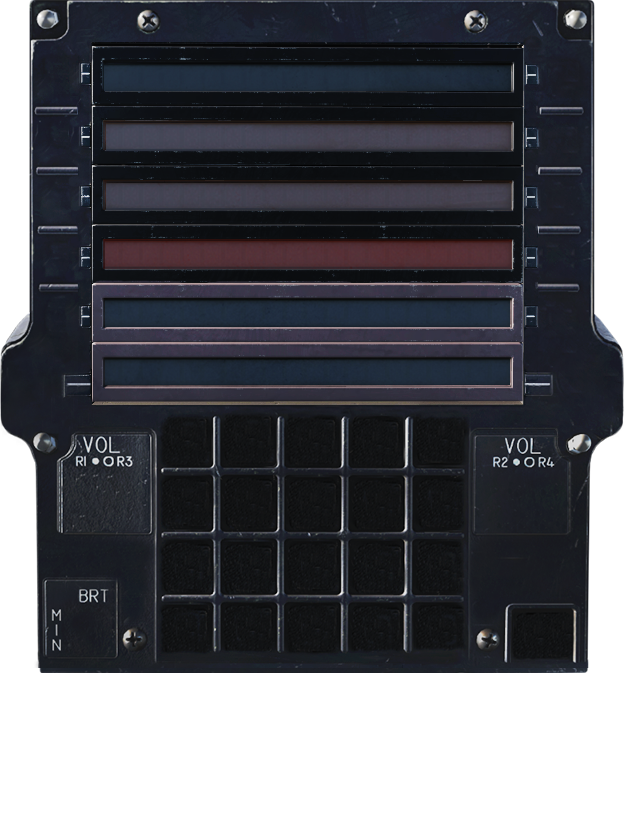
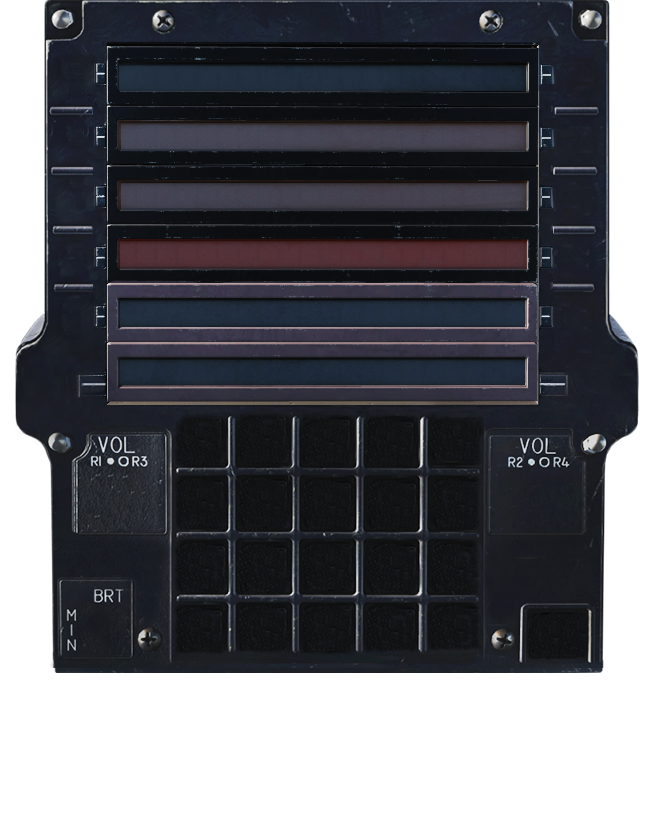
F-15E Interface: # Viewport Template defined # UFC resized to fix a scaling problem # AMAD images added Changes made to interface items: # Landing/Taxi Light Switch # Fuel Fuel Control: Wing Tanks # Fuel Fuel Control: Centerline Tank # Fuel Fuel Control: Conformal Tanks # Fuel A/R Slipway # Fuel Fue

diff --git a/Helios/Interfaces/DCS/F-15E/F15EInterface.cs b/Helios/Interfaces/DCS/F-15E/F15EInterface.cs
@@ -26,6 +26,7 @@ namespace GadrocsWorkshop.Helios.Interfaces.DCS.F15E
     using System.Windows.Markup;
     using System.Reflection;
     using GadrocsWorkshop.Helios.Gauges.AH64D.KU.PILOT;
+    using System.Configuration;
 
     public enum Cockpit { Pilot, WSO }
     /// <summary>
@@ -126,19 +127,19 @@ namespace GadrocsWorkshop.Helios.Interfaces.DCS.F15E
             #region AMAD Panel
             AddFunction(new Switch(this, devices.DEEC.ToString("d"), "314", new SwitchPosition[] { new SwitchPosition("1.0", "Posn 1", Commands.amadctrl_commands.fire_ext_sw.ToString("d"), Commands.amadctrl_commands.fire_ext_sw.ToString("d"), "0.0", "0.0"), new SwitchPosition("0.0", "Posn 2", null), new SwitchPosition("-1.0", "Posn 3", Commands.amadctrl_commands.fire_ext_sw.ToString("d"), Commands.amadctrl_commands.fire_ext_sw.ToString("d"), "0.0", "0.0") }, "AMAD Panel", "Fire Extinguisher Switch", "%0.1f"));
             AddFunction(new Switch(this, devices.DEEC.ToString("d"), "315", new SwitchPosition[] { new SwitchPosition("1.0", "Posn 1", Commands.amadctrl_commands.amad_sw_cover.ToString("d")), new SwitchPosition("0.0", "Posn 2", Commands.amadctrl_commands.amad_sw_cover.ToString("d")) }, "AMAD Panel", "AMAD Fire Switch Cover", "%0.1f"));
-            AddFunction(new Switch(this, devices.DEEC.ToString("d"), "316", new SwitchPosition[] { new SwitchPosition("1.0", "Posn 1", Commands.amadctrl_commands.amad_sw.ToString("d")), new SwitchPosition("0.0", "Posn 2", Commands.amadctrl_commands.amad_sw.ToString("d")) }, "AMAD Panel", "AMAD Fire Switch", "%0.1f"));
+            AddFunction(new PushButton(this, devices.DEEC.ToString("d"), Commands.amadctrl_commands.amad_sw.ToString("d"), "316", "AMAD Panel", "AMAD Fire Switch", "%.1f"));
             AddFunction(new FlagValue(this, "130", "AMAD Panel", "AMAD Fire Indicator", "True when indicator is lit", "%1d"));
             AddFunction(new Switch(this, devices.DEEC.ToString("d"), "317", new SwitchPosition[] { new SwitchPosition("1.0", "Posn 1", Commands.amadctrl_commands.left_eng_fire_cover.ToString("d")), new SwitchPosition("0.0", "Posn 2", Commands.amadctrl_commands.left_eng_fire_cover.ToString("d")) }, "AMAD Panel", "Left Engine Fire Switch Cover", "%0.1f"));
-            AddFunction(new Switch(this, devices.DEEC.ToString("d"), "318", new SwitchPosition[] { new SwitchPosition("1.0", "Posn 1", Commands.amadctrl_commands.left_eng_fire_sw.ToString("d")), new SwitchPosition("0.0", "Posn 2", Commands.amadctrl_commands.left_eng_fire_sw.ToString("d")) }, "AMAD Panel", "Left Engine Fire Switch", "%0.1f"));
+            AddFunction(new PushButton(this, devices.DEEC.ToString("d"), Commands.amadctrl_commands.left_eng_fire_sw.ToString("d"), "318", "AMAD Panel", "Left Engine Fire Switch", "%.1f"));
             AddFunction(new FlagValue(this, "131", "AMAD Panel", "Engine Fire Left Indicator", "True when indicator is lit", "%1d"));
             AddFunction(new Switch(this, devices.DEEC.ToString("d"), "319", new SwitchPosition[] { new SwitchPosition("1.0", "Posn 1", Commands.amadctrl_commands.right_eng_fire_cover.ToString("d")), new SwitchPosition("0.0", "Posn 2", Commands.amadctrl_commands.right_eng_fire_cover.ToString("d")) }, "AMAD Panel", "Right Engine Fire Switch Cover", "%0.1f"));
-            AddFunction(new Switch(this, devices.DEEC.ToString("d"), "320", new SwitchPosition[] { new SwitchPosition("1.0", "Posn 1", Commands.amadctrl_commands.right_eng_fire_sw.ToString("d")), new SwitchPosition("0.0", "Posn 2", Commands.amadctrl_commands.right_eng_fire_sw.ToString("d")) }, "AMAD Panel", "Right Engine Fire Switch", "%0.1f"));
+            AddFunction(new PushButton(this, devices.DEEC.ToString("d"), Commands.amadctrl_commands.right_eng_fire_sw.ToString("d"), "320", "AMAD Panel", "Right Engine Fire Switch", "%.1f"));
             AddFunction(new FlagValue(this, "132", "AMAD Panel", "Engine Fire Right Indicator", "True when indicator is lit", "%1d"));
             AddFunction(new FlagValue(this, "133", "AMAD Panel", "Left Burn Thru Indicator", "True when indicator is lit", "%1d"));
             AddFunction(new FlagValue(this, "134", "AMAD Panel", "Right Burn Thru Indicator", "True when indicator is lit", "%1d"));
             #endregion AMAD Panel
             #region Armament Panel
-            AddFunction(new Switch(this, devices.PACS.ToString("d"), "323", new SwitchPosition[] { new SwitchPosition("1.0", "Posn 1", Commands.armtctrl_commands.Master_Arm_SW.ToString("d")), new SwitchPosition("0.0", "Posn 2", Commands.armtctrl_commands.Master_Arm_SW.ToString("d")) }, "Armament Panel", "Master Arm", "%0.1f"));
+            AddFunction(new Switch(this, devices.PACS.ToString("d"), "323", new SwitchPosition[] { new SwitchPosition("1.0", "Arm", Commands.armtctrl_commands.Master_Arm_SW.ToString("d")), new SwitchPosition("0.0", "Safe", Commands.armtctrl_commands.Master_Arm_SW.ToString("d")) }, "Armament Panel", "Master Arm", "%0.1f"));
             AddFunction(new Switch(this, devices.PACS.ToString("d"), "321", SwitchPositions.Create(7, -0.9d, 0.3d, Commands.armtctrl_commands.JETT_Selector_Knob.ToString("d"), new string[] { "FF", "Manual Ret", "Alternating Release", "Off", "Combat", "A/A","A/G"}, "%0.1f"), "Armament Panel", "Armament Jettison Selector", "%0.1f"));
             AddFunction(new PushButton(this, devices.PACS.ToString("d"), Commands.armtctrl_commands.JETT_Button.ToString("d"), "322", "Armament Panel", "Armament Jettison Button", "%.1f"));
             AddFunction(new PushButton(this, devices.PACS.ToString("d"), Commands.misc_commands.em_jett_btn.ToString("d"), "340", "Armament Panel", "Emergency Jettison Button", "%.1f"));
@@ -158,9 +159,9 @@ namespace GadrocsWorkshop.Helios.Interfaces.DCS.F15E
             AddFunction(new PushButton(this, devices.WCAS.ToString("d"), Commands.ldg_commands.warn_tone_sil_btn.ToString("d"), "325", "Landing Gear Panel", "Landing Gear Warning Tone Silence Switch", "%.1f"));
             AddFunction(new Switch(this, devices.LGS.ToString("d"), "324", new SwitchPosition[] { new SwitchPosition("0.0", "Up", Commands.ldg_commands.Gear_lever.ToString("d")), new SwitchPosition("1.0", "Down", Commands.ldg_commands.Gear_lever.ToString("d") )}, "Landing Gear Panel", "Landing Gear Lever", "%0.1f"));
             AddFunction(new FlagValue(this, "333", "Landing Gear Panel", "Gear Lever Warning Indicator", "True when indicator is lit", "%.1f"));
-            AddFunction(new FlagValue(this, "331", "Landing Gear Panel", "Left Gear Down Indicator", "True when indicator is lit", "%.1f"));
-            AddFunction(new FlagValue(this, "330", "Landing Gear Panel", "Nose Gear Down Indicator", "True when indicator is lit", "%.1f"));
-            AddFunction(new FlagValue(this, "332", "Landing Gear Panel", "Right Gear Down Indicator", "True when indicator is lit", "%.1f"));
+            AddFunction(new NetworkValue(this, "331", "Landing Gear Panel", "Left Gear Down Indicator", "Numeric value representing indicator color", "0.0 to 1.0",BindingValueUnits.Numeric, "%.1f"));
+            AddFunction(new NetworkValue(this, "330", "Landing Gear Panel", "Nose Gear Down Indicator", "Numeric value representing indicator color", "0.0 to 1.0", BindingValueUnits.Numeric, "%.1f"));
+            AddFunction(new NetworkValue(this, "332", "Landing Gear Panel", "Right Gear Down Indicator", "Numeric value representing indicator color", "0.0 to 1.0", BindingValueUnits.Numeric, "%.1f"));
 
             AddFunction(new FlagValue(this, "338", "Landing Gear Panel", "Half Flaps Indicator", "True when indicator is lit", "%1d"));
             AddFunction(new FlagValue(this, "339", "Landing Gear Panel", "Full Flaps Indicator", "True when indicator is lit", "%1d"));
@@ -213,6 +214,8 @@ namespace GadrocsWorkshop.Helios.Interfaces.DCS.F15E
             AddFunction(new FlagValue(this, "405", "Threat Indicators (Pilot)", "SAM Threat Indicator", "True when indicator is lit", "%1d"));
             AddFunction(new FlagValue(this, "406", "Threat Indicators (Pilot)", "Low Altitude Indicator", "True when indicator is lit", "%1d"));
             AddFunction(new FlagValue(this, "407", "Threat Indicators (Pilot)", "TF Fail Indicator", "True when indicator is lit", "%1d"));
+            AddFunction(new FlagValue(this, "429", "Threat Indicators (Pilot)", "OBST Indicator", "True when indicator is lit", "%1d"));
+
             #endregion Threat Indicators (Pilot)
             #region Caution Panel (Pilot)
             //  +----------------+------------------+
@@ -257,9 +260,17 @@ namespace GadrocsWorkshop.Helios.Interfaces.DCS.F15E
             #endregion Caution Panel (Pilot)
             AddFunction(new FlagValue(this, "431", "Landing Gear Panel", "Emergency Landing Gear Handle ROTATE", "Rotation value", "%1d"));
             #region Indicators (others) Pilot
-            AddFunction(new FlagValue(this, "429", "Indicators (Pilot)", "OBST Indicator", "True when indicator is lit", "%1d"));
             AddFunction(new FlagValue(this, "409", "Indicators (Pilot)", "Laser Armed Indicator", "True when indicator is lit", "%1d"));
             AddFunction(new FlagValue(this, "410", "Indicators (Pilot)", "A/P Indicator", "True when indicator is lit", "%1d"));
+            AddFunction(new FlagValue(this, "496", "Indicators (Pilot)", "Bingo Fuel Indicator", "True when indicator is lit", "%1d"));
+            AddFunction(new FlagValue(this, "499", "Indicators (Pilot)", "Anti-Skid Disabled Indicator ", "True when indicator is lit", "%1d"));
+            AddFunction(new FlagValue(this, "493", "Indicators (Pilot)", "Hook Down Indicator", "True when indicator is lit", "%1d"));
+
+            AddFunction(new FlagValue(this, "494", "Unknown Indicators (Pilot)", "Indicator " + "494", "True when indicator is lit", "%1d"));
+            AddFunction(new FlagValue(this, "495", "Unknown Indicators (Pilot)", "Indicator " + "495", "True when indicator is lit", "%1d"));
+            AddFunction(new FlagValue(this, "497", "Unknown Indicators (Pilot)", "Indicator " + "497", "True when indicator is lit", "%1d"));
+            AddFunction(new FlagValue(this, "498", "Unknown Indicators (Pilot)", "Indicator " + "498", "True when indicator is lit", "%1d"));
+            AddFunction(new FlagValue(this, "500", "Unknown Indicators (Pilot)", "Indicator " + "500", "True when indicator is lit", "%1d"));
             AddFunction(new FlagValue(this, "486", "Unknown Indicators (Pilot)", "Indicator " + "486", "True when indicator is lit", "%1d"));
             AddFunction(new FlagValue(this, "487", "Unknown Indicators (Pilot)", "Indicator " + "487", "True when indicator is lit", "%1d"));
             AddFunction(new FlagValue(this, "488", "Unknown Indicators (Pilot)", "Indicator " + "488", "True when indicator is lit", "%1d"));
@@ -267,14 +278,6 @@ namespace GadrocsWorkshop.Helios.Interfaces.DCS.F15E
             AddFunction(new FlagValue(this, "490", "Unknown Indicators (Pilot)", "Indicator " + "490", "True when indicator is lit", "%1d"));
             AddFunction(new FlagValue(this, "491", "Unknown Indicators (Pilot)", "Indicator " + "491", "True when indicator is lit", "%1d"));
             AddFunction(new FlagValue(this, "492", "Unknown Indicators (Pilot)", "Indicator " + "492", "True when indicator is lit", "%1d"));
-            AddFunction(new FlagValue(this, "493", "Indicators (Pilot)", "Hook Down Indicator", "True when indicator is lit", "%1d"));
-            AddFunction(new FlagValue(this, "494", "Unknown Indicators (Pilot)", "Indicator " + "494", "True when indicator is lit", "%1d"));
-            AddFunction(new FlagValue(this, "495", "Unknown Indicators (Pilot)", "Indicator " + "495", "True when indicator is lit", "%1d"));
-            AddFunction(new FlagValue(this, "496", "Indicators (Pilot)", "Bingo Fuel Indicator", "True when indicator is lit", "%1d"));
-            AddFunction(new FlagValue(this, "497", "Unknown Indicators (Pilot)", "Indicator " + "497", "True when indicator is lit", "%1d"));
-            AddFunction(new FlagValue(this, "498", "Unknown Indicators (Pilot)", "Indicator " + "498", "True when indicator is lit", "%1d"));
-            AddFunction(new FlagValue(this, "499", "Indicators (Pilot)", "Anti-Skid Disabled Indicator ", "True when indicator is lit", "%1d"));
-            AddFunction(new FlagValue(this, "500", "Unknown Indicators (Pilot)", "Indicator " + "500", "True when indicator is lit", "%1d"));
             #endregion Indicators (others) Pilot
             #region Emergency Jettison and Misc Handles
             AddFunction(new Switch(this, devices.LGS.ToString("d"), "336", new SwitchPosition[] { new SwitchPosition("1.0", "Posn 1", Commands.misc_commands.arr_hook_lever.ToString("d")), new SwitchPosition("0.0", "Posn 2", Commands.misc_commands.arr_hook_lever.ToString("d")) }, "Emergency Jettison and Misc Handles", "Arresting Hook Handle", "%0.1f"));
@@ -287,7 +290,7 @@ namespace GadrocsWorkshop.Helios.Interfaces.DCS.F15E
             #endregion Emergency Jettison and Misc Handles
             #region Jet Fuel Starter/Brake Panel
             // Line 121: elements["PTN_386"] = Pull_And_Rotate_Control_Handle(_("JFS Control Handle, (LMB)PULL/(RMB)ROTATE"), devices.EPSS, misc_commands.jfs_lever, 386, misc_commands.jfs_handle_turn, 430, 8.0)
-            AddFunction(Switch.CreateToggleSwitch(this, devices.EPSS.ToString("d"), Commands.misc_commands.jfs_lever.ToString("d"), "386", "1.0", "Pulled", "0.0", "Neutral", "Jet Fuel Starter/Brake Panel", "Jet Fuel System Lever", "%0.1f"));
+            AddFunction(Switch.CreateToggleSwitch(this, devices.EPSS.ToString("d"), Commands.misc_commands.jfs_lever.ToString("d"), "386", "1.0", "Pulled", "0.0", "Norm", "Jet Fuel Starter/Brake Panel", "Jet Fuel System Lever", "%0.1f"));
             AddFunction(new Switch(this, devices.LGS.ToString("d"), "387", new SwitchPosition[] { new SwitchPosition("1.0", "Posn 1", Commands.misc_commands.park_brake_sw.ToString("d")), new SwitchPosition("0.0", "Posn 2", Commands.misc_commands.park_brake_sw.ToString("d")) }, "Jet Fuel Starter/Brake Panel", "Parking Brake Switch", "%0.1f"));
             #endregion Jet Fuel Starter/Brake Panel
             #region LEFT MPD
@@ -370,31 +373,31 @@ namespace GadrocsWorkshop.Helios.Interfaces.DCS.F15E
             AddFunction(new Switch(this, devices.FLINST.ToString("d"), "451", new SwitchPosition[] { new SwitchPosition("1.0", "Posn 1", Commands.nuc_commands.nuc_sw.ToString("d")), new SwitchPosition("0.0", "Posn 2", Commands.nuc_commands.nuc_sw.ToString("d")), new SwitchPosition("-1.0", "Posn 3", Commands.nuc_commands.nuc_sw.ToString("d")) }, "Nuclear", "Nuclear Consent Switch", "%0.1f"));
             #endregion Nuclear
             #region CAS
-            AddFunction(new Switch(this, devices.FLCTRL.ToString("d"), "452", SwitchPositions.Create(3, 0d, 0.5d, Commands.cas_commands.yaw_sw.ToString("d"), "Posn", "%0.1f"), "CAS", "Yaw CAS Switch, when ON (LMB) RESET/(RMB) OFF", "%0.1f"));
-            AddFunction(new Switch(this, devices.FLCTRL.ToString("d"), "453", SwitchPositions.Create(3, 0d, 0.5d, Commands.cas_commands.roll_sw.ToString("d"), "Posn", "%0.1f"), "CAS", "Roll CAS Switch, when ON (LMB) RESET/(RMB) OFF", "%0.1f"));
-            AddFunction(new Switch(this, devices.FLCTRL.ToString("d"), "454", SwitchPositions.Create(3, 0d, 0.5d, Commands.cas_commands.pitch_sw.ToString("d"), "Posn", "%0.1f"), "CAS", "Pitch CAS Switch, when ON (LMB) RESET/(RMB) OFF", "%0.1f"));
+            AddFunction(new Switch(this, devices.FLCTRL.ToString("d"), "452", SwitchPositions.Create(3, 0.5d, -0.25d, Commands.cas_commands.yaw_sw.ToString("d"), new string[] { "On", "Reset", "Off" }, "%0.2f"), "CAS", "Yaw CAS Switch", "%0.2f"));
+            AddFunction(new Switch(this, devices.FLCTRL.ToString("d"), "453", SwitchPositions.Create(3, 0.5d, -0.25d, Commands.cas_commands.roll_sw.ToString("d"), new string[] { "On", "Reset", "Off" }, "%0.2f"), "CAS", "Roll CAS Switch", "%0.2f"));
+            AddFunction(new Switch(this, devices.FLCTRL.ToString("d"), "454", SwitchPositions.Create(3, 0.5d, -0.25d, Commands.cas_commands.pitch_sw.ToString("d"), new string[] { "On","Reset","Off"}, "%0.2f"), "CAS", "Pitch CAS Switch", "%0.2f"));
             AddFunction(new PushButton(this, devices.FLCTRL.ToString("d"), Commands.cas_commands.bit_button.ToString("d"), "455", "CAS", "BIT Button", "%.1f"));
             AddFunction(new Switch(this, devices.FLCTRL.ToString("d"), "456", new SwitchPosition[] { new SwitchPosition("1.0", "Posn 1", Commands.cas_commands.tf_couple_sw.ToString("d")), new SwitchPosition("0.0", "Posn 2", Commands.cas_commands.tf_couple_sw.ToString("d")) }, "CAS", "TF Couple Switch", "%0.1f"));
             AddFunction(new PushButton(this, devices.FLCTRL.ToString("d"), Commands.cas_commands.to_button.ToString("d"), "457", "CAS", "T/O Trim Button", "%.1f"));
             AddFunction(new FlagValue(this, "458", "CAS", "T/O Trim Indicator", "True when indicator is lit", "%1d"));
-            AddFunction(new Switch(this, devices.FLCTRL.ToString("d"), "335", new SwitchPosition[] { new SwitchPosition("1.0", "Posn 1", Commands.fltinst_commands.pitch_ratio_sw.ToString("d")), new SwitchPosition("0.0", "Posn 2", Commands.fltinst_commands.pitch_ratio_sw.ToString("d")) }, "CAS", "Pitch Ratio switch", "%.2f"));
+            AddFunction(new Switch(this, devices.FLCTRL.ToString("d"), "335", new SwitchPosition[] { new SwitchPosition("1.0", "Auto", Commands.fltinst_commands.pitch_ratio_sw.ToString("d")), new SwitchPosition("0.0", "EMERG", Commands.fltinst_commands.pitch_ratio_sw.ToString("d")) }, "CAS", "Pitch Ratio switch", "%.1f"));
             AddFunction(new NetworkValue(this, "334", "CAS", "Pitch Ratio", "Numeric value of the pitch ratio", "0.0 to 1.0", BindingValueUnits.Numeric, "%.2f"));
 
             #endregion CAS
             #region MISC
-            AddFunction(new Switch(this, devices.FLCTRL.ToString("d"), "534", new SwitchPosition[] { new SwitchPosition("1.0", "Posn 1", Commands.misc_commands.roll_ratio_sw.ToString("d")), new SwitchPosition("0.0", "Posn 2", Commands.misc_commands.roll_ratio_sw.ToString("d")) }, "Miscellaneous", "Roll Ratio Switch", "%0.1f"));
-            AddFunction(new Switch(this, devices.DEEC.ToString("d"), "535", new SwitchPosition[] { new SwitchPosition("1.0", "Posn 1", Commands.misc_commands.left_inlet_sw.ToString("d")), new SwitchPosition("0.0", "Posn 2", Commands.misc_commands.left_inlet_sw.ToString("d")) }, "Miscellaneous", "Left Inlet Ramp Switch", "%0.1f"));
-            AddFunction(new Switch(this, devices.DEEC.ToString("d"), "536", new SwitchPosition[] { new SwitchPosition("1.0", "Posn 1", Commands.misc_commands.right_inlet_sw.ToString("d")), new SwitchPosition("0.0", "Posn 2", Commands.misc_commands.right_inlet_sw.ToString("d")) }, "Miscellaneous", "Right Inlet Ramp Switch", "%0.1f"));
-            AddFunction(new Switch(this, devices.LGS.ToString("d"), "537", SwitchPositions.Create(3, 0d, 0.5d, Commands.misc_commands.anti_skid_sw.ToString("d"), "Posn", "%0.1f"), "Miscellaneous", "Anti Skid Switch", "%0.1f"));
+            AddFunction(new Switch(this, devices.FLCTRL.ToString("d"), "534", new SwitchPosition[] { new SwitchPosition("1.0", "AUTO", Commands.misc_commands.roll_ratio_sw.ToString("d")), new SwitchPosition("0.0", "EMERG", Commands.misc_commands.roll_ratio_sw.ToString("d")) }, "Miscellaneous Panel", "Roll Ratio Switch", "%0.1f"));
+            AddFunction(new Switch(this, devices.DEEC.ToString("d"), "535", new SwitchPosition[] { new SwitchPosition("1.0", "AUTO", Commands.misc_commands.left_inlet_sw.ToString("d")), new SwitchPosition("0.0", "EMERG", Commands.misc_commands.left_inlet_sw.ToString("d")) }, "Miscellaneous Panel", "Left Inlet Ramp Switch", "%0.1f"));
+            AddFunction(new Switch(this, devices.DEEC.ToString("d"), "536", new SwitchPosition[] { new SwitchPosition("1.0", "AUTO", Commands.misc_commands.right_inlet_sw.ToString("d")), new SwitchPosition("0.0", "EMERG", Commands.misc_commands.right_inlet_sw.ToString("d")) }, "Miscellaneous Panel", "Right Inlet Ramp Switch", "%0.1f"));
+            AddFunction(new Switch(this, devices.LGS.ToString("d"), "537", SwitchPositions.Create(3, 1d, -0.5d, Commands.misc_commands.anti_skid_sw.ToString("d"), new string[] { "Norm","Pulser","Off"}, "%0.1f"), "Miscellaneous Panel", "Anti Skid Switch", "%0.1f"));
             #endregion MISC
             #region FUEL
-            AddFunction(new Switch(this, devices.AFSS.ToString("d"), "527", new SwitchPosition[] { new SwitchPosition("1.0", "Posn 1", Commands.fuelpnl_commands.fueltrnfr_wing_sw.ToString("d")), new SwitchPosition("0.0", "Posn 2", Commands.fuelpnl_commands.fueltrnfr_wing_sw.ToString("d")), new SwitchPosition("-1.0", "Posn 3", Commands.fuelpnl_commands.fueltrnfr_wing_sw.ToString("d")) }, "Fuel", "Fuel Control: Wing Tanks", "%0.1f"));
-            AddFunction(new Switch(this, devices.AFSS.ToString("d"), "528", new SwitchPosition[] { new SwitchPosition("1.0", "Posn 1", Commands.fuelpnl_commands.fueltrnfr_ctr_sw.ToString("d")), new SwitchPosition("0.0", "Posn 2", Commands.fuelpnl_commands.fueltrnfr_ctr_sw.ToString("d")), new SwitchPosition("-1.0", "Posn 3", Commands.fuelpnl_commands.fueltrnfr_ctr_sw.ToString("d")) }, "Fuel", "Fuel Control: Centerline Tank", "%0.1f"));
-            AddFunction(new Switch(this, devices.AFSS.ToString("d"), "529", new SwitchPosition[] { new SwitchPosition("1.0", "Posn 1", Commands.fuelpnl_commands.fueltrnfr_cft_sw.ToString("d")), new SwitchPosition("0.0", "Posn 2", Commands.fuelpnl_commands.fueltrnfr_cft_sw.ToString("d")), new SwitchPosition("-1.0", "Posn 3", Commands.fuelpnl_commands.fueltrnfr_cft_sw.ToString("d")) }, "Fuel", "Fuel Control: Conformal Tanks", "%0.1f"));
-            AddFunction(new Switch(this, devices.AFSS.ToString("d"), "530", new SwitchPosition[] { new SwitchPosition("1.0", "Posn 1", Commands.fuelpnl_commands.fuel_dump_sw.ToString("d")), new SwitchPosition("0.0", "Posn 2", Commands.fuelpnl_commands.fuel_dump_sw.ToString("d")) }, "Fuel", "Fuel Dump", "%0.1f"));
+            AddFunction(new Switch(this, devices.AFSS.ToString("d"), "527", new SwitchPosition[] { new SwitchPosition("1.0", "Stop Trans", Commands.fuelpnl_commands.fueltrnfr_wing_sw.ToString("d")), new SwitchPosition("0.0", "Norm", Commands.fuelpnl_commands.fueltrnfr_wing_sw.ToString("d")), new SwitchPosition("-1.0", "Stop Refuel", Commands.fuelpnl_commands.fueltrnfr_wing_sw.ToString("d")) }, "Fuel", "Fuel Control: Wing Tanks", "%0.1f"));
+            AddFunction(new Switch(this, devices.AFSS.ToString("d"), "528", new SwitchPosition[] { new SwitchPosition("1.0", "Stop Trans", Commands.fuelpnl_commands.fueltrnfr_ctr_sw.ToString("d")), new SwitchPosition("0.0", "Norm", Commands.fuelpnl_commands.fueltrnfr_ctr_sw.ToString("d")), new SwitchPosition("-1.0", "Stop Refuel", Commands.fuelpnl_commands.fueltrnfr_ctr_sw.ToString("d")) }, "Fuel", "Fuel Control: Centerline Tank", "%0.1f"));
+            AddFunction(new Switch(this, devices.AFSS.ToString("d"), "529", new SwitchPosition[] { new SwitchPosition("1.0", "Stop Trans", Commands.fuelpnl_commands.fueltrnfr_cft_sw.ToString("d")), new SwitchPosition("0.0", "Norm", Commands.fuelpnl_commands.fueltrnfr_cft_sw.ToString("d")), new SwitchPosition("-1.0", "Stop Refuel", Commands.fuelpnl_commands.fueltrnfr_cft_sw.ToString("d")) }, "Fuel", "Fuel Control: Conformal Tanks", "%0.1f"));
+            AddFunction(new Switch(this, devices.AFSS.ToString("d"), "530", new SwitchPosition[] { new SwitchPosition("1.0", "Dump", Commands.fuelpnl_commands.fuel_dump_sw.ToString("d")), new SwitchPosition("0.0", "Norm", Commands.fuelpnl_commands.fuel_dump_sw.ToString("d")) }, "Fuel", "Fuel Dump", "%0.1f"));
             AddFunction(new Switch(this, devices.AFSS.ToString("d"), "531", new SwitchPosition[] { new SwitchPosition("1.0", "Posn 1", Commands.fuelpnl_commands.fuel_cft_emergtrf_sw.ToString("d")), new SwitchPosition("0.0", "Posn 2", Commands.fuelpnl_commands.fuel_cft_emergtrf_sw.ToString("d")), new SwitchPosition("-1.0", "Posn 3", Commands.fuelpnl_commands.fuel_cft_emergtrf_sw.ToString("d")) }, "Fuel", "Conformal Tanks Emergency Transfer", "%0.1f"));
             AddFunction(new Switch(this, devices.AFSS.ToString("d"), "532", new SwitchPosition[] { new SwitchPosition("1.0", "Posn 1", Commands.fuelpnl_commands.fuel_ext_trfr_sw.ToString("d")), new SwitchPosition("0.0", "Posn 2", Commands.fuelpnl_commands.fuel_ext_trfr_sw.ToString("d")) }, "Fuel", "External Fuel Transfer", "%0.1f"));
-            AddFunction(new Switch(this, devices.AFSS.ToString("d"), "533", SwitchPositions.Create(3, 0d, 0.5d, Commands.fuelpnl_commands.fuel_AIR_sw.ToString("d"), "Posn", "%0.1f"), "Fuel", "A/R Slipway", "%0.1f"));
+            AddFunction(new Switch(this, devices.AFSS.ToString("d"), "533", SwitchPositions.Create(3, 1.0d, -0.5d, Commands.fuelpnl_commands.fuel_AIR_sw.ToString("d"), new string[] {  "Override", "Open", "Closed"}, "%0.1f"), "Fuel", "A/R Slipway", "%0.1f"));
             #endregion FUEL
             #region Throttle Quadrant
             AddFunction(new Switch(this, devices.FLCTRL.ToString("d"), "459", new SwitchPosition[] { new SwitchPosition("1.0", "Posn 1", Commands.fltctrl_commands.Flaps_Control_SW.ToString("d")), new SwitchPosition("0.0", "Posn 2", Commands.fltctrl_commands.Flaps_Control_SW.ToString("d")) }, "Throttle Quadrant", "Flaps Control Switch", "%0.1f"));
@@ -427,7 +430,7 @@ namespace GadrocsWorkshop.Helios.Interfaces.DCS.F15E
             AddFunction(new Switch(this, devices.FLINST.ToString("d"), "517", new SwitchPosition[] { new SwitchPosition("1.0", "Posn 1", Commands.iffctrl_commands.master_sw.ToString("d")), new SwitchPosition("0.0", "Posn 2", Commands.iffctrl_commands.master_sw.ToString("d")), new SwitchPosition("-1.0", "Posn 3", Commands.iffctrl_commands.master_sw.ToString("d")) }, "IFF", "IFF Master Switch", "%0.1f"));
             #endregion IFF
             #region Lights External
-            AddFunction(new Switch(this, devices.EXTLT.ToString("d"), "538", new SwitchPosition[] { new SwitchPosition("1.0", "Posn 1", Commands.extlt_commands.ldg_taxi_light_sw.ToString("d")), new SwitchPosition("0.0", "Posn 2", Commands.extlt_commands.ldg_taxi_light_sw.ToString("d")), new SwitchPosition("-1.0", "Posn 3", Commands.extlt_commands.ldg_taxi_light_sw.ToString("d")) }, "Lights External", "Landing/Taxi Light Switch", "%0.1f"));
+            AddFunction(new Switch(this, devices.EXTLT.ToString("d"), "538", new SwitchPosition[] { new SwitchPosition("1.0", "Landing", Commands.extlt_commands.ldg_taxi_light_sw.ToString("d")), new SwitchPosition("0.0", "Off", Commands.extlt_commands.ldg_taxi_light_sw.ToString("d")), new SwitchPosition("-1.0", "Taxi", Commands.extlt_commands.ldg_taxi_light_sw.ToString("d")) }, "Lights External", "Landing/Taxi Light Switch", "%0.1f"));
             AddFunction(new Switch(this, devices.EXTLT.ToString("d"), "465", SwitchPositions.Create(7, 0d, 0.17d, Commands.extlt_commands.formation_lt_knob.ToString("d"), "Posn", "%0.2f"), "Lights External", "Formation Lights Knob", "%0.2f"));
             AddFunction(new Switch(this, devices.EXTLT.ToString("d"), "466", new SwitchPosition[] { new SwitchPosition("1.0", "Posn 1", Commands.extlt_commands.anticoll_lt_sw.ToString("d")), new SwitchPosition("0.0", "Posn 2", Commands.extlt_commands.anticoll_lt_sw.ToString("d")) }, "Lights External", "Anti Collison Light Switch", "%0.1f"));
             AddFunction(new Switch(this, devices.EXTLT.ToString("d"), "467", SwitchPositions.Create(7, 0d, 0.17d, Commands.extlt_commands.pos_lt_knob.ToString("d"), "Posn", "%0.2f"), "Lights External", "Position Lights Knob", "%0.2f"));

diff --git a/Helios/Gauges/F-15E/UFC/UFC.cs b/Helios/Gauges/F-15E/UFC/UFC.cs
@@ -37,7 +37,7 @@ namespace GadrocsWorkshop.Helios.Gauges.F15E.UFC
         private const double _oduFontSize = 25;
 
         public UFC(string interfaceDevice, Cockpit cockpit)
-            : base(interfaceDevice, new Size(624, 827))
+            : base(interfaceDevice, new Size(654, 827))
         {
             SupportedInterfaces = new[] { typeof(Interfaces.DCS.F15E.F15EInterface) };
             _interfaceDevice = interfaceDevice;
@@ -47,27 +47,27 @@ namespace GadrocsWorkshop.Helios.Gauges.F15E.UFC
             _frameBezelPanel.FillBackground = false;
             _frameBezelPanel.DrawBorder = false;
 
-            AddUFCTextDisplay("Option Line 1", new Point(104d, 61d), new Size(414d, 39d), _interfaceDevice, "Option Line 1", _oduFontSize, "%%%%%%%%%%%%%%%%%%%%", TextHorizontalAlignment.Left, "", Color.FromArgb(0xE0, 0x9e, 0x9e, 0xa6),20);
-            AddUFCTextDisplay("Option Line 2", new Point(104d, 120d), new Size(414d, 39d), _interfaceDevice, "Option Line 2", _oduFontSize, "%%%%%%%%%%%%%%%%%%%%", TextHorizontalAlignment.Left, "", Color.FromArgb(0xE0, 0xa2, 0x6e, 0x6d),20);
-            AddUFCTextDisplay("Option Line 3", new Point(104d, 179d), new Size(414d, 39d), _interfaceDevice, "Option Line 3", _oduFontSize, "%%%%%%%%%%%%%%%%%%%%", TextHorizontalAlignment.Left, "", Color.FromArgb(0xE0, 0xa2, 0x6f, 0x6e),20);
-            AddUFCTextDisplay("Option Line 4", new Point(104d, 237d), new Size(414d, 39d), _interfaceDevice, "Option Line 4", _oduFontSize, "%%%%%%%%%%%%%%%%%%%%", TextHorizontalAlignment.Left, "", Color.FromArgb(0xE0, 0xa2, 0x6f, 0x6e),20 );
-            AddUFCTextDisplay("Option Line 5", new Point(104d, 296d), new Size(414d, 39d), _interfaceDevice, "Option Line 5", _oduFontSize, "%%%%%%%%%%%%%%%%%%%%", TextHorizontalAlignment.Left, "", Color.FromArgb(0xE0, 0x9e, 0x9e, 0xa6), 20);
-            AddUFCTextDisplay("Option Line 6", new Point(104d, 354d), new Size(414d, 39d), _interfaceDevice, "Option Line 6", _oduFontSize, "%%%%%%%%%%%%%%%%%%%%", TextHorizontalAlignment.Left, "", Color.FromArgb(0xE0, 0x9e, 0x9e, 0xa6), 20);
-            AddEncoder("Left UHF Preset Channel Selector", new Point(-15, 340), new Size(112, 112), "Left UHF Preset Channel Selector");
-            AddRadioButton("Left UHF Preset Channel Pull Switch", new Rect(7, 361, 70, 70), "Left UHF Preset Channel Pull Switch");
-            AddEncoder("Right UHF Preset Channel Selector", new Point(526, 340), new Size(112, 112), "Right UHF Preset Channel Selector");
-            AddRadioButton("Right UHF Preset Channel Pull Switch", new Rect(547, 361, 70, 70), "Right UHF Preset Channel Pull Switch");
-            AddPot("UHF Radio 3 Volume", new Point(60d, 457d), new Size(90d, 90d), "UHF Radio 3 Volume", $"{ImageLocation}RadioVol_Knob_Back.png");
-            AddPot("UHF Radio 1 Volume", new Point(83d, 479d), new Size(45d, 45d), "UHF Radio 1 Volume", $"{ImageLocation}UFC_Knob_1.png");
-            AddPot("UHF Radio 4 Volume", new Point(473d, 457d), new Size(90d, 90d), "UHF Radio 4 Volume", $"{ImageLocation}RadioVol_Knob_Back.png");
-            AddPot("UHF Radio 2 Volume", new Point(496d, 479d), new Size(45d, 45d), "UHF Radio 2 Volume", $"{ImageLocation}UFC_Knob_1.png");
-            AddPot("UFC LCD Brightness", new Point(53d, 592d), new Size(75d, 75d), "UFC LCD Brightness", $"{ImageLocation}UFC_Knob_1a.png",225d,270d);
+            AddUFCTextDisplay("Option Line 1", new Point(119d, 61d), new Size(414d, 39d), _interfaceDevice, "Option Line 1", _oduFontSize, "%%%%%%%%%%%%%%%%%%%%", TextHorizontalAlignment.Left, "", Color.FromArgb(0xE0, 0x9e, 0x9e, 0xa6),20);
+            AddUFCTextDisplay("Option Line 2", new Point(119d, 120d), new Size(414d, 39d), _interfaceDevice, "Option Line 2", _oduFontSize, "%%%%%%%%%%%%%%%%%%%%", TextHorizontalAlignment.Left, "", Color.FromArgb(0xE0, 0xa2, 0x6e, 0x6d),20);
+            AddUFCTextDisplay("Option Line 3", new Point(119d, 179d), new Size(414d, 39d), _interfaceDevice, "Option Line 3", _oduFontSize, "%%%%%%%%%%%%%%%%%%%%", TextHorizontalAlignment.Left, "", Color.FromArgb(0xE0, 0xa2, 0x6f, 0x6e),20);
+            AddUFCTextDisplay("Option Line 4", new Point(119d, 237d), new Size(414d, 39d), _interfaceDevice, "Option Line 4", _oduFontSize, "%%%%%%%%%%%%%%%%%%%%", TextHorizontalAlignment.Left, "", Color.FromArgb(0xE0, 0xa2, 0x6f, 0x6e),20 );
+            AddUFCTextDisplay("Option Line 5", new Point(119d, 296d), new Size(414d, 39d), _interfaceDevice, "Option Line 5", _oduFontSize, "%%%%%%%%%%%%%%%%%%%%", TextHorizontalAlignment.Left, "", Color.FromArgb(0xE0, 0x9e, 0x9e, 0xa6), 20);
+            AddUFCTextDisplay("Option Line 6", new Point(119d, 354d), new Size(414d, 39d), _interfaceDevice, "Option Line 6", _oduFontSize, "%%%%%%%%%%%%%%%%%%%%", TextHorizontalAlignment.Left, "", Color.FromArgb(0xE0, 0x9e, 0x9e, 0xa6), 20);
+            AddEncoder("Left UHF Preset Channel Selector", new Point(0, 340), new Size(112, 112), "Left UHF Preset Channel Selector");
+            AddRadioButton("Left UHF Preset Channel Pull Switch", new Rect(22, 361, 70, 70), "Left UHF Preset Channel Pull Switch");
+            AddEncoder("Right UHF Preset Channel Selector", new Point(541, 340), new Size(112, 112), "Right UHF Preset Channel Selector");
+            AddRadioButton("Right UHF Preset Channel Pull Switch", new Rect(562, 361, 70, 70), "Right UHF Preset Channel Pull Switch");
+            AddPot("UHF Radio 3 Volume", new Point(75d, 457d), new Size(90d, 90d), "UHF Radio 3 Volume", $"{ImageLocation}RadioVol_Knob_Back.png");
+            AddPot("UHF Radio 1 Volume", new Point(98d, 479d), new Size(45d, 45d), "UHF Radio 1 Volume", $"{ImageLocation}UFC_Knob_1.png");
+            AddPot("UHF Radio 4 Volume", new Point(488d, 457d), new Size(90d, 90d), "UHF Radio 4 Volume", $"{ImageLocation}RadioVol_Knob_Back.png");
+            AddPot("UHF Radio 2 Volume", new Point(511d, 479d), new Size(45d, 45d), "UHF Radio 2 Volume", $"{ImageLocation}UFC_Knob_1.png");
+            AddPot("UFC LCD Brightness", new Point(68d, 592d), new Size(75d, 75d), "UFC LCD Brightness", $"{ImageLocation}UFC_Knob_1a.png",225d,270d);
 
             int buttonNumber = 1;
             for(double i=60;i<=296;i += 59)
             {
-                AddOSBButton($"Option Push Button {buttonNumber} Left", new Rect(39d, i, 37d, 37d), $"Option Push Button {buttonNumber} Left");
-                AddOSBButton($"Option Push Button {buttonNumber} Right", new Rect(542d, i, 37d, 37d), $"Option Push Button {buttonNumber++} Right");
+                AddOSBButton($"Option Push Button {buttonNumber} Left", new Rect(54d, i, 37d, 37d), $"Option Push Button {buttonNumber} Left");
+                AddOSBButton($"Option Push Button {buttonNumber} Right", new Rect(557d, i, 37d, 37d), $"Option Push Button {buttonNumber++} Right");
             }
             buttonNumber = 0;
             for (int j = 418; j <= 610; j += 64)
@@ -85,10 +85,10 @@ namespace GadrocsWorkshop.Helios.Gauges.F15E.UFC
                     {
                         keyName = labels[buttonNumber]; 
                     }
-                    AddKeypadButton($"{keyName} Key", new Rect(i, j, 44d, 44d), labels[buttonNumber++]);
+                    AddKeypadButton($"{keyName} Key", new Rect(i+15, j, 44d, 44d), labels[buttonNumber++]);
                 }
             }
-            AddKeypadButton($"Emission Limit Key", new Rect(513, 612, 57d, 47d), "EMIS_LMT");
+            AddKeypadButton($"Emission Limit Key", new Rect(528, 612, 57d, 47d), "EMIS_LMT");
 
 
 

diff --git a/Helios/Gauges/F-15E/UFC/UFC Pilot.cs b/Helios/Gauges/F-15E/UFC/UFC Pilot.cs
@@ -39,17 +39,17 @@ namespace GadrocsWorkshop.Helios.Gauges.F15E.UFC
             _frameBezelPanel.FillBackground = false;
             _frameBezelPanel.DrawBorder = false;
             InterfaceDevice = "HUD Control Panel";
-            AddThreeWayToggle("HUD Symbology Reject Mode", 172, 695, new Size(37, 86), "HUD Symbology Reject Mode");
-            AddThreeWayToggle("HUD DAY/AUTO/NIGHT Mode Selector", 289, 695, new Size(37, 86), "HUD DAY/AUTO/NIGHT Mode Selector");
+            AddThreeWayToggle("HUD Symbology Reject Mode", 187, 695, new Size(37, 86), "HUD Symbology Reject Mode");
+            AddThreeWayToggle("HUD DAY/AUTO/NIGHT Mode Selector", 304, 695, new Size(37, 86), "HUD DAY/AUTO/NIGHT Mode Selector");
 
-            AddPot("HUD Brightness Control", new Point(51d, 684d), new Size(75d, 75d), "HUD Brightness Control", $"{ImageLocation}UFC_Knob_1a.png", 225d, 270d);
-            AddPot("HUD Video Brightness Control", new Point(415d, 684d), new Size(75d, 75d), "HUD Video Brightness Control", $"{ImageLocation}UFC_Knob_1a.png", 225d, 270d);
-            AddPot("HUD Contrast Control", new Point(500d, 684d), new Size(75d, 75d), "HUD Contrast Control", $"{ImageLocation}UFC_Knob_1a.png", 225d, 270d);
+            AddPot("HUD Brightness Control", new Point(66d, 684d), new Size(75d, 75d), "HUD Brightness Control", $"{ImageLocation}UFC_Knob_1a.png", 225d, 270d);
+            AddPot("HUD Video Brightness Control", new Point(430d, 684d), new Size(75d, 75d), "HUD Video Brightness Control", $"{ImageLocation}UFC_Knob_1a.png", 225d, 270d);
+            AddPot("HUD Contrast Control", new Point(515d, 684d), new Size(75d, 75d), "HUD Contrast Control", $"{ImageLocation}UFC_Knob_1a.png", 225d, 270d);
             string[] MasterModes = { "AA", "AG", "Nav", "Inst" };
             int j = 0;
             for (int i = 180; i <= 405; i += 75)
             {
-                AddIndicatorPushButton($"{MasterModes[j]} Master Mode Selector", new Point(i, 793), new Size(47,30), MasterModes[j], "HUD Control Panel", $"{MasterModes[j]} Master Mode Selector",$"{MasterModes[j++]} Master Mode Indicator");
+                AddIndicatorPushButton($"{MasterModes[j]} Master Mode Selector", new Point(i+15, 793), new Size(47,30), MasterModes[j], "HUD Control Panel", $"{MasterModes[j]} Master Mode Selector",$"{MasterModes[j++]} Master Mode Indicator");
             }
         }
     }

diff --git a/Tools/ToolsCommon/ViewportTemplate.cs b/Tools/ToolsCommon/ViewportTemplate.cs
@@ -35,7 +35,8 @@ namespace ToolsCommon
             {"M2000C", "M-2000C"},
             {"Mi-8MTV2", "Mi-8"},
             {"MIG-21bis", "MiG-21"},
-            {"POLYCHOPSIM_SA342", "SA342"} // NOTE: no dash in this name
+            {"POLYCHOPSIM_SA342", "SA342"}, // NOTE: no dash in this name
+            { "F-15ESE", "F-15E"}
         };
 
         // REVISIT these will go away when we get the new ViewportTemplates format with the prefix in the file
